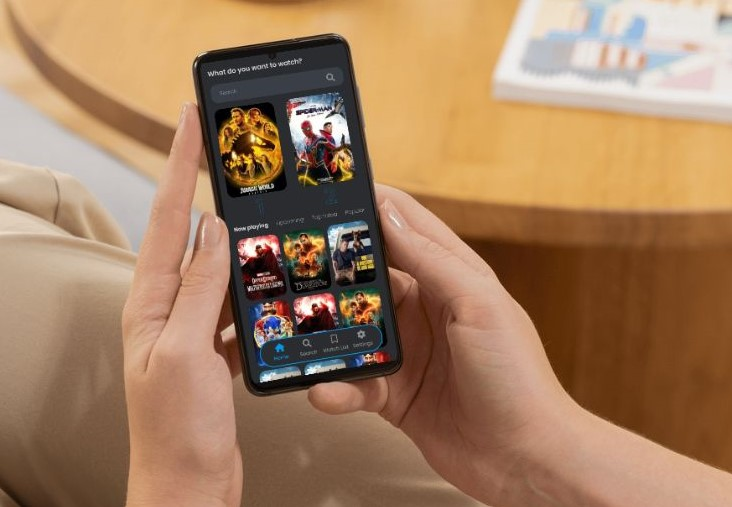
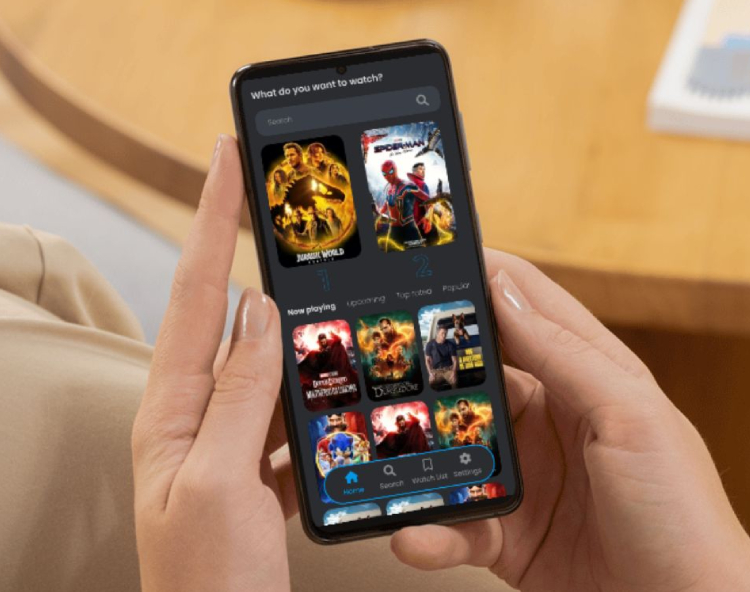
fix: Portfolio image resolution

diff --git a/index.html b/index.html
@@ -5,11 +5,13 @@
     <meta name="viewport" content="width=device-width, initial-scale=1, shrink-to-fit=no">
     <meta name="description" content="Portfolio of Raul Cruz - Product Designer and UX/UI Specialist. Explore projects in design, video games, and prototyping.">
     <meta name="author" content="Raul Cruz">
+	<meta name="keywords" content="UX/UI Design, Product Design, Game Design, Web Development, Portfolio">
     <title>Raul Cruz | Product Designer & UX/UI Specialist</title>
     <link rel="icon" type="image/x-icon" href="assets/imgs/favicon.ico">
     <link rel="stylesheet" href="assets/vendors/themify-icons/css/themify-icons.css">
     <link rel="stylesheet" href="assets/css/rcdesign.css">
     <script src="https://kit.fontawesome.com/7bd6b6881f.js" crossorigin="anonymous"></script>
+	
 </head>
 <body data-spy="scroll" data-target=".navbar" data-offset="40" id="home">
     
@@ -113,9 +115,8 @@
                                     <h6 class="title">MovieVerse</h6>
                                     <p class="subtitle">Prototyping and Development of a Web Application</p>
 									<p class="description">Interactive prototypes in Figma and a responsive React web app with real-time API integration.</p>
-									<p class="link"><a href="https://www.figma.com/proto/oHNdIAiO3n5XzapEWtr993/Figma_Proto_MovieVerse" target="_blank"  rel="noopener noreferrer" class="white">Prototype </a><scan> / </scan><a class="white"  rel="noopener noreferrer" href="" target="_blank"> GitHub</a></p>
-									
-                                </div>
+									<p class="link"><a href="https://www.figma.com/proto/oHNdIAiO3n5XzapEWtr993/Figma_Proto_MovieVerse" target="_blank"  rel="noopener noreferrer" class="white">Prototype </a></p>
+									</div>
                             </div>    
                         </div>              
                     </div>
